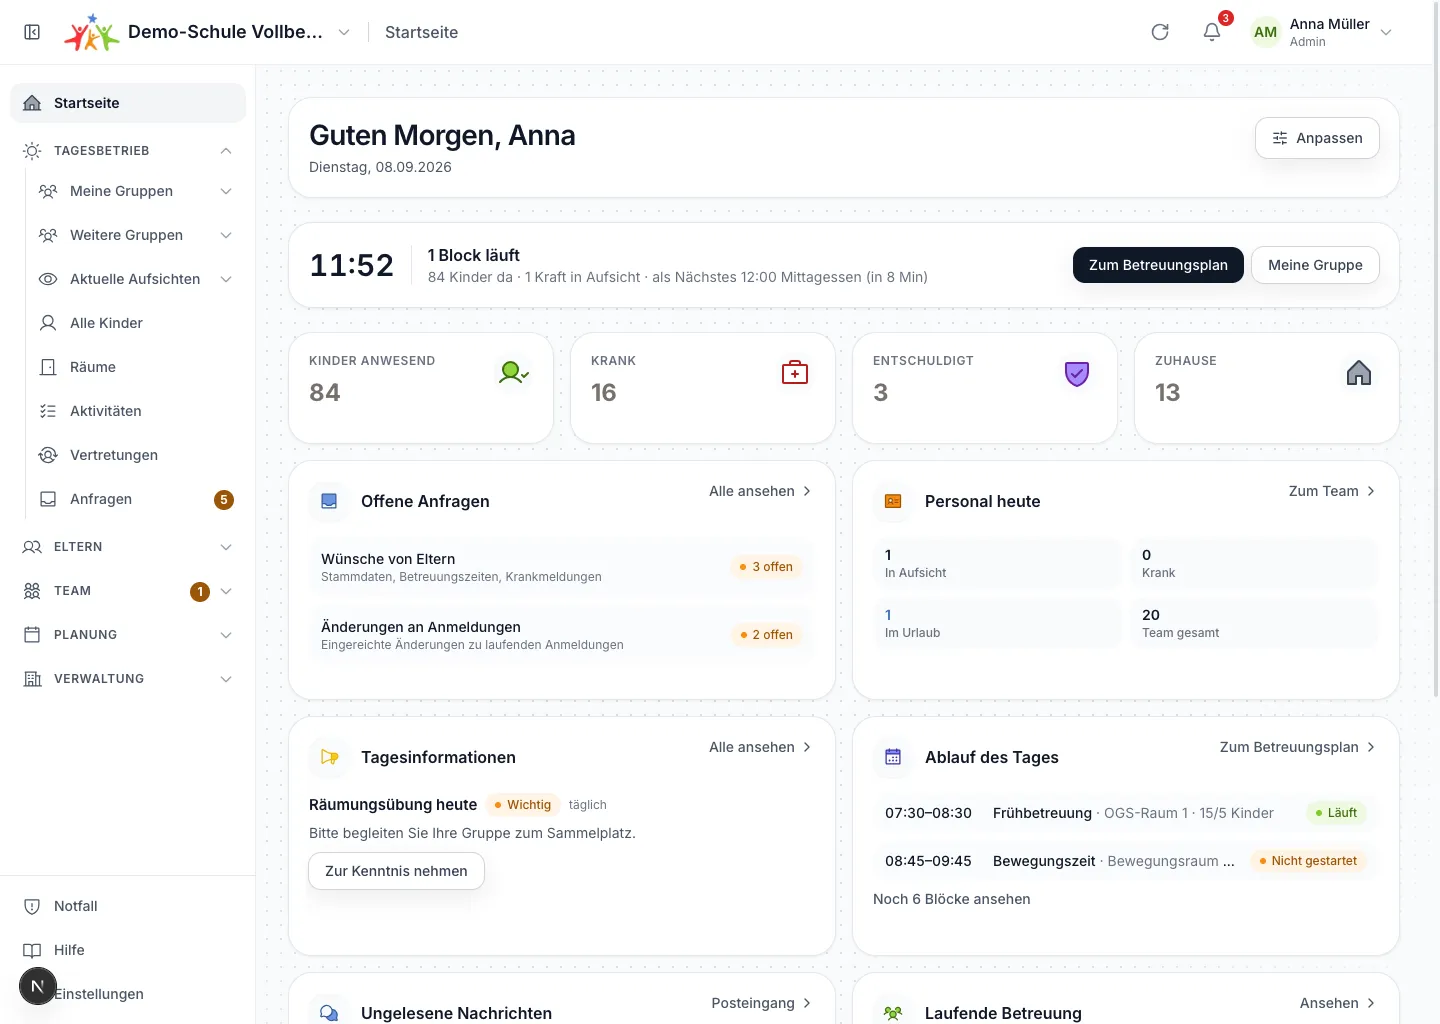
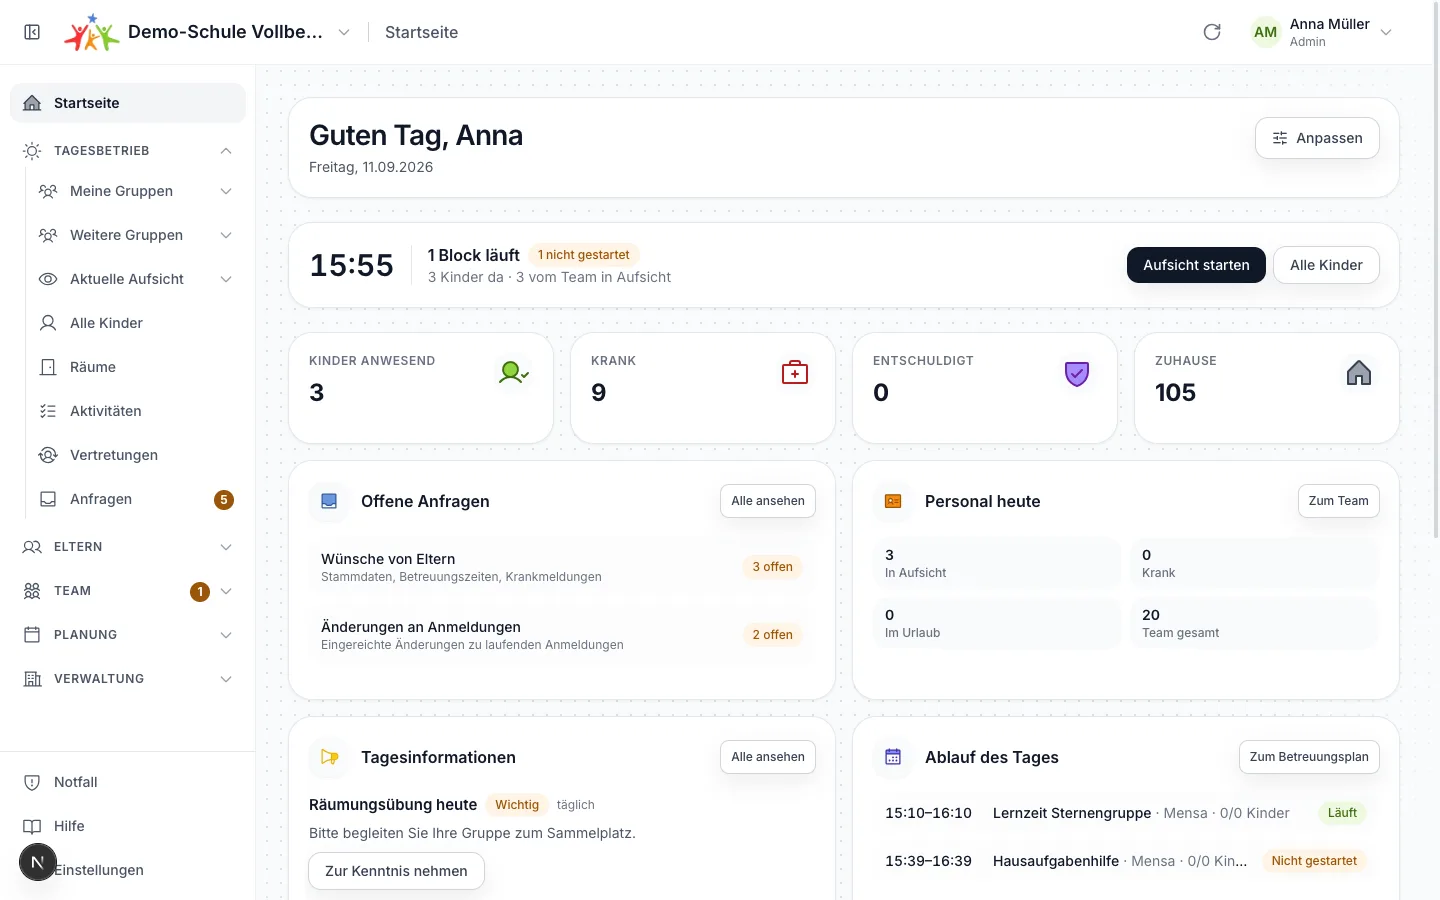
docs(frontend): Anleitung zur Jetzt-Zone der Startseite nachziehen
Der Hilfe-Schritt zur Startseite nannte noch „Aufsicht fortsetzen" und
„Meine Gruppe" als Knöpfe und „Läuft" für jeden fälligen Einsatz. Er
beschreibt jetzt „Aufsicht starten", „Zur Aufsicht" und „Alle Kinder" und
wann „Läuft" steht; das Bild der Startseite ist neu aufgenommen.

Der Aktionstyp der Jetzt-Zone ist nicht mehr exportiert, er wird nur in
home-now.ts gebraucht.

diff --git a/frontend/src/components/help/guide-data.ts b/frontend/src/components/help/guide-data.ts
@@ -619,7 +619,7 @@ export const appChapters: readonly GuideChapter[] = [
           "Nach dem Anmelden landen alle auf der Startseite. Ganz oben steht, was jetzt ansteht; darunter liegen Bausteine, die Sie selbst anordnen. Womit Sie starten, hängt von Ihrer Aufgabe ab.",
         steps: [
           "In der Seitenleiste ganz oben `Startseite` öffnen. Nach dem Anmelden landen Sie automatisch hier, unabhängig von Ihrer Rolle. Am Handy ist es der Reiter `Start` unten links.",
-          "Die Zeile unter der Begrüßung zeigt die Uhrzeit und den Moment: Betreuungskräfte sehen den Einsatz, der gerade läuft (`Läuft`), oder den nächsten mit der Zeit bis dahin. Die Leitung sieht, wie viele Blöcke laufen, wie viele nicht gestartet wurden, wie viele Kinder da sind und wie viele vom Team Aufsicht führen. Rechts daneben führt ein Knopf dorthin, wo Sie jetzt am ehesten hinwollen, zum Beispiel `Aufsicht fortsetzen` oder `Meine Gruppe`. Der Tag selbst steht direkt darunter im Baustein `Mein Tag`.",
+          "Die Zeile unter der Begrüßung zeigt die Uhrzeit und den Moment: Betreuungskräfte sehen den Einsatz, der jetzt dran ist, oder den nächsten mit der Zeit bis dahin. `Läuft` steht dort erst, wenn der Block gestartet ist, sonst `Nicht gestartet`. Die Leitung sieht, wie viele Blöcke laufen, wie viele nicht gestartet wurden, wie viele Kinder da sind und wie viele vom Team Aufsicht führen. Daneben stehen höchstens zwei Knöpfe: `Aufsicht starten`, wenn Ihr eigener Block jetzt beginnen kann, oder `Zur Aufsicht`, wenn Ihre Aufsicht schon läuft, und dazu `Alle Kinder`. Der Tag selbst steht direkt darunter im Baustein `Mein Tag`.",
           "Betreuungskräfte starten mit `Mein Tag` (Ihr ganzer Betreuungstag: alle Blöcke, für die Sie eingeteilt sind, mit Raum, Kinderzahl und Kolleginnen, die Jetzt-Linie und der Knopf `Starten` am eigenen Block), `Meine Gruppe heute` (wie viele Kinder da sind, wer längst da sein sollte, die nächsten Abholungen mit den Hinweisen der Eltern, wer heute fehlt), den `Tagesinformationen` der Leitung und den `Erinnerungen` (anstehende Abholungen und Aktivitäten).",
           "Die Leitung startet mit vier Kennzahlen (`Kinder anwesend`, `Krank`, `Entschuldigt`, `Zuhause`), den `Offenen Anfragen`, `Personal heute`, den `Tagesinformationen`, dem `Ablauf des Tages`, den `Ungelesenen Nachrichten` und der `Laufenden Betreuung`. Wer die Einrichtung leitet und selbst betreut, bekommt beides: den eigenen Tag vorneweg, die Lage der Schule dahinter.",
           "Ein Klick auf eine Kennzahl springt in den passenden Bereich, zum Beispiel von `Krank` in den bereits gefilterten Bereich `Alle Kinder`. Jede Zeile in einer Karte führt dorthin, wo Sie damit arbeiten.",
@@ -633,7 +633,7 @@ export const appChapters: readonly GuideChapter[] = [
           tone: "blue",
         },
         screenshot:
-          "Startseite mit Begrüßung, der Zeile mit Uhrzeit und laufendem Einsatz, den Bausteinen der eigenen Rolle und dem Knopf `Anpassen` oben rechts.",
+          "Startseite der Leitung mit Begrüßung, der Zeile mit Uhrzeit, der Lage der Schule und den Knöpfen `Aufsicht starten` und `Alle Kinder`, darunter die Bausteine und oben rechts der Knopf `Anpassen`.",
         image: "/help/screens/startseite.webp",
       },
       {

diff --git a/frontend/src/lib/home-now.ts b/frontend/src/lib/home-now.ts
@@ -153,7 +153,7 @@ export function startableOwnBlock(
   );
 }
 
-export type NowAction =
+type NowAction =
   | {
       readonly kind: "link";
       readonly href: string;
